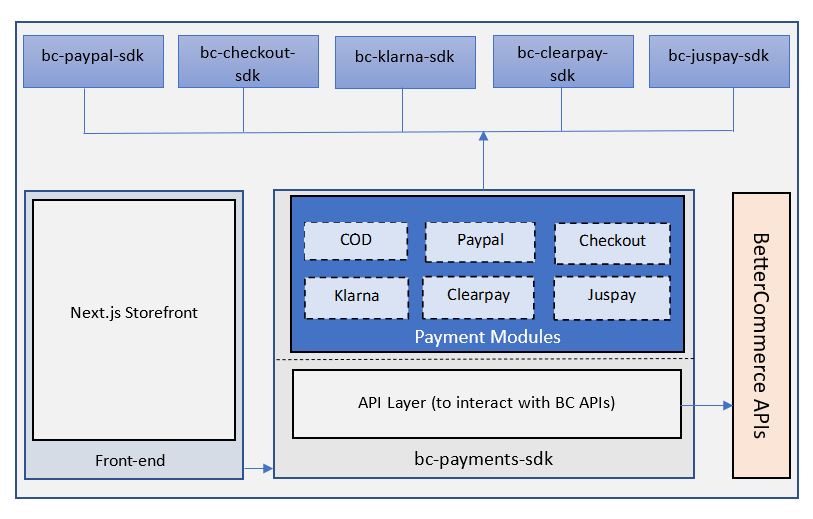
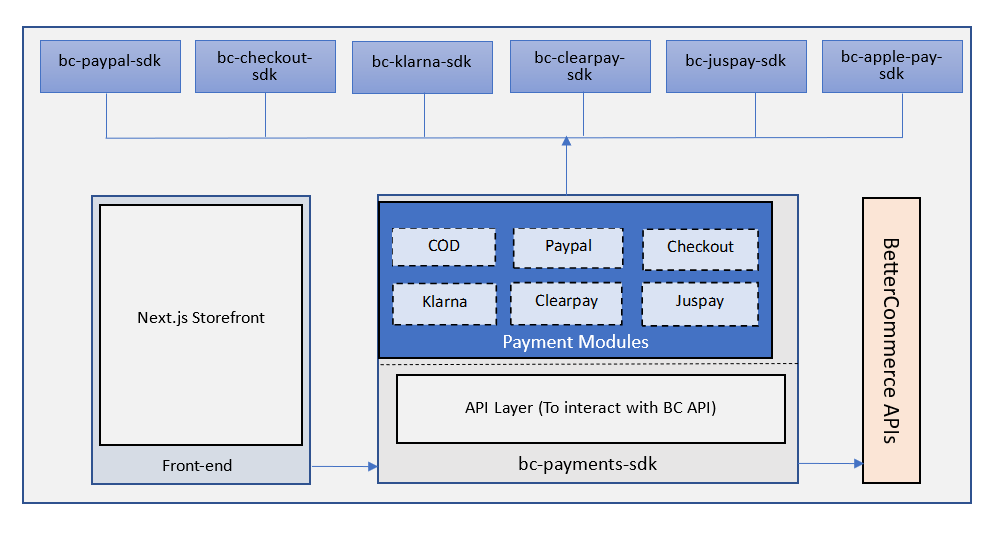
Updated README

Changed region(s): [[0.0, 0.0308, 0.984, 0.9865]]

diff --git a/README.md b/README.md
@@ -64,6 +64,16 @@ It integrates SDK APIs for the following providers:
 | Sandbox | https://portal.playground.klarna.com/ | |
 | Live | https://portal.klarna.com/ | |
 
+## ApplePay
+
+| Name           | Reference      | Description                                |
+| :------------- | :------------- | :----------------------------------------- |
+| Widget Integration |  https://developer.apple.com/documentation/apple_pay_on_the_web/apple_pay_js_api      |                                                |
+| API SDK        | https://developer.apple.com/documentation/apple_pay_on_the_web/apple_pay_js_api/requesting_an_apple_pay_payment_session |                                                |
+| NPM Package | https://github.com/better-commerce/bc-apple-pay-sdk         | Node.js SDK for interaction with ApplePay - @better-commerce/bc-apple-pay-sdk |
+| Sandbox | https://sandbox.apple-pay-gateway.apple.com/ | |
+| Live | https://apple-pay-gateway.apple.com/ | |
+
 ## Installation
 
 Use below command for package installation:
